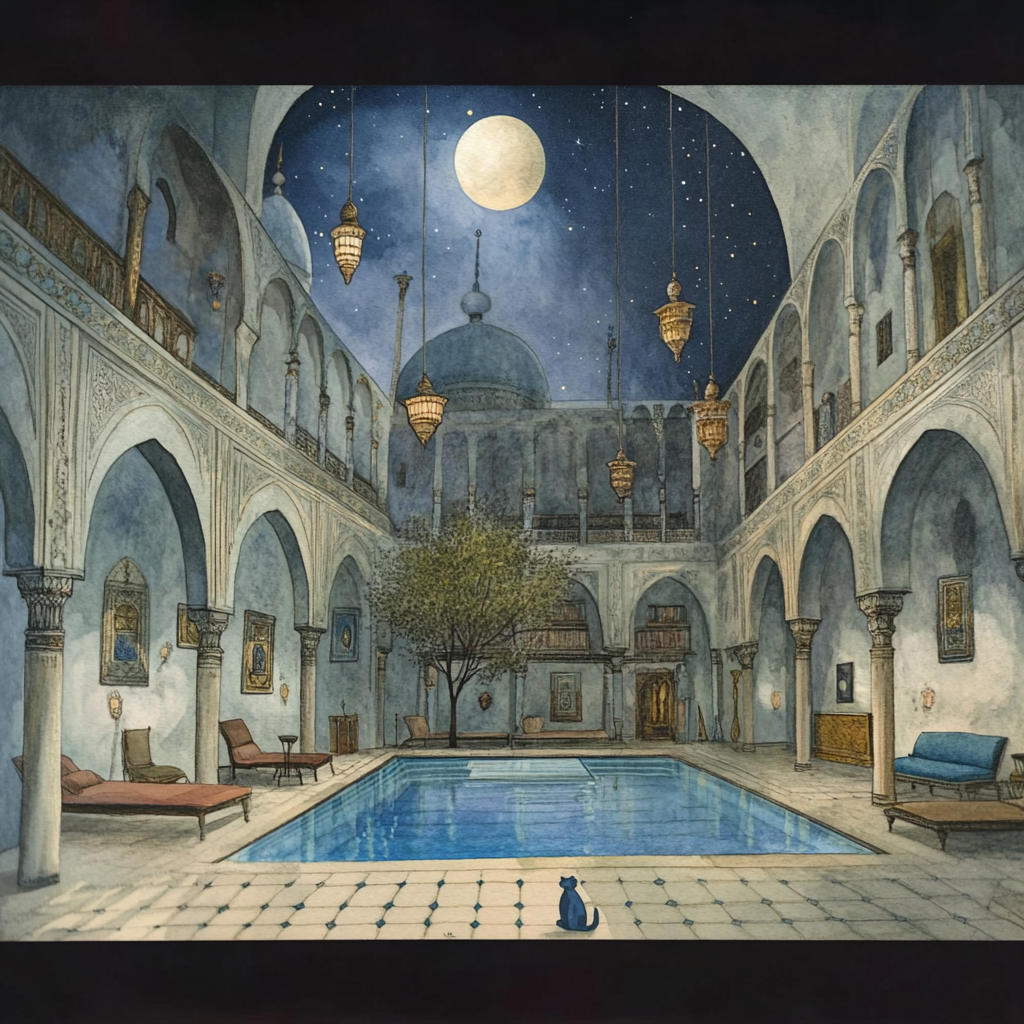
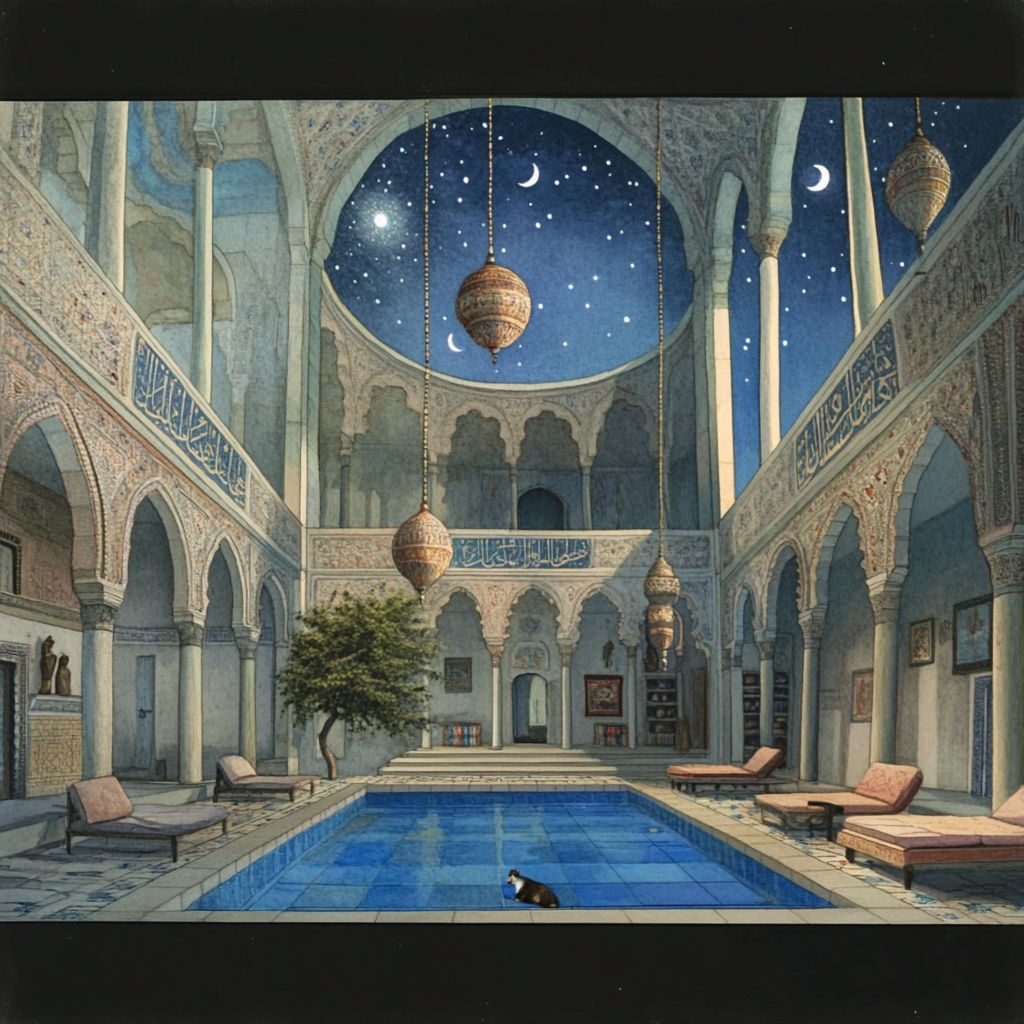
room 2 and some doors

diff --git a/room1/image_list.js b/room1/image_list.js
@@ -9,10 +9,47 @@ const images = [
   "images/room1_8.png",
   "images/room1_9.png",
   "images/room1_10.png",
+  "images/room1_10b.png",
+  "images/room1_10c.png",
   "images/room1_11.png",
-  "images/room1_12.png",
+  "images/room1_12.png.png",
+  "images/room1_12a.png",
   "images/room1_13.png",
   "images/room1_14.png",
   "images/room1_15.png",
   "images/room1_16.png",
+  "images/room1_17.png",
+  "images/room1_18.png",
+  "images/room1_19.png",
+  "images/room1_20.png",
+  "images/room1_20a.png",
+  "images/room1_20b.png",
+  "images/room1_21a.png",
+  "images/room1_21png.png",
+  "images/room1_22.png",
+  "images/room1_22a.png",
+  "images/room1_23.png",
+  "images/room1_24.png",
+  "images/room1_25.png",
+  "images/room1_26.png",
+  "images/room1_27.png",
+  "images/room1_28.png",
+  "images/room1_29.png",
+  "images/room1_30.png",
+  "images/room1_30a.png",
+  "images/room1_31.png",
+  "images/room1_32.png",
+  "images/room1_33.png",
+  "images/room1_33a.png",
+  "images/room1_34.png",
+  "images/room1_35.png",
+  "images/room1_36.png",
+  "images/room1_37.png",
+  "images/room1_38.png",
+  "images/room1_39.png",
+  "images/room1_40.png",
+  "images/room1_41.png",
+  "images/room1_42.png",
+  "images/room1_43.png",
+  "images/room1_44.png",
 ];

diff --git a/room2/fader.js b/room2/fader.js
@@ -1,0 +1,41 @@
+function startFader(images) {
+  console.log(`[${new Date().toLocaleTimeString()}] 🚀 startFader called with images:`, images);
+
+  let frontImg = document.getElementById('imgA');
+  let backImg = document.getElementById('imgB');
+
+  if (!frontImg || !backImg) {
+    console.error("❌ Could not find image elements #imgA or #imgB");
+    return;
+  }
+
+  let current = images.length - 1; // Start from the last image
+  frontImg.src = images[current];
+  frontImg.style.opacity = 1;
+  backImg.style.opacity = 0;
+
+  function crossfade() {
+    current = (current + 1) % images.length;
+    const nextSrc = images[current];
+
+    const imgPreloader = new Image();
+    imgPreloader.src = nextSrc;
+    imgPreloader.onload = () => {
+      const temp = frontImg;
+      frontImg = backImg;
+      backImg = temp;
+
+      backImg.src = nextSrc;
+      backImg.style.opacity = 1;
+      frontImg.style.opacity = 0;
+
+      console.log(`[${new Date().toLocaleTimeString()}] 🔁 Crossfaded to image: ${nextSrc}`);
+    };
+  }
+
+  // Start the first fade after a brief delay
+  setTimeout(() => {
+    crossfade(); // first transition
+    setInterval(crossfade, 7000); // continue every 15s
+  }, 300);
+}

diff --git a/home.css b/home.css
@@ -1,0 +1,52 @@
+/* Full background image settings */
+body {
+  background-size: contain;
+  background-position: center;
+  background-repeat: no-repeat;
+  background-color: black;
+  height: 100vh;
+  margin: 0;
+  font-family: sans-serif;
+  display: flex;
+  align-items: center;
+  justify-content: center;
+  text-align: center;
+  flex-direction: column;
+}
+
+/* Overlay container for all text */
+#overlay {
+  display: flex;
+  flex-direction: column;
+  align-items: center;
+  justify-content: center;
+}
+
+/* Highlight box styling for all text elements */
+.text-highlight {
+  background-color: rgba(255, 255, 255, 0.5);  /* translucent black */
+  color: white;
+  padding: 0.5rem 1rem;
+  border-radius: 0.4rem;
+  margin: 0.5rem auto;
+  backdrop-filter: blur(4px);
+  display: inline-block;
+  text-align: center;
+  max-width: 90%;
+}
+
+/* Room link styling */
+.room-link {
+  text-decoration: none;
+  color: white;
+  background-color: rgba(255, 255, 255, 0.15);
+  padding: 0.5rem 1rem;
+  border-radius: 0.5rem;
+  margin: 0.5rem;
+  transition: background-color 0.3s ease;
+  display: inline-block;
+}
+
+.room-link:hover {
+  background-color: rgba(255, 255, 255, 0.3);
+}

diff --git a/index.html b/index.html
@@ -1,11 +1,26 @@
 <!DOCTYPE html>
 <html>
 <head>
-  <title>dinghvadinidselfidest</title>
+  <meta charset="UTF-8" />
+  <title>A.L.P.INC</title>
+  <link rel="stylesheet" href="home.css">
 </head>
 <body>
-  <h1>A.L.PINC</h1>
-  <p>This sound will continue to play. You're inside the loop</p>
-  <p><a href="room1/">enter mind room 1</a></p>
+  <div id="overlay">
+    <h1 class="text-highlight">A.L.P.INC</h1>
+    <p class="text-highlight">This sound will continue to play. You're inside the loop.</p>
+    <div class="room-links">
+      <a href="room1/" class="room-link text-highlight">Room 1</a>
+      <a href="room2/" class="room-link text-highlight">Room 2</a>
+      <!-- Add more as needed -->
+    </div>
+  </div>
+ 
+
+  <script src="doorImages.js"></script>
+  <script>
+    const background = doorImages[Math.floor(Math.random() * doorImages.length)];
+    document.body.style.backgroundImage = `url(${background})`;
+  </script>
 </body>
 </html>

diff --git a/room2/image_list.js b/room2/image_list.js
@@ -1,0 +1,33 @@
+const images = [
+  "images/room2_2.png",
+  "images/room2_3.png",
+  "images/room2_4.png",
+  "images/room2_5.png",
+  "images/room2_6.png",
+  "images/room2_7.png",
+  "images/room2_8.png",
+  "images/room2_9.png",
+  "images/room2_10.png",
+  "images/room2_11.png",
+  "images/room2_12.png",
+  "images/room2_13.png",
+  "images/room2_14.png",
+  "images/room2_15.png",
+  "images/room2_16.png",
+  "images/room2_17.png",
+  "images/room2_17a.png",
+  "images/room2_17b.png",
+  "images/room2_18a.png",
+  "images/room2_19.png",
+  "images/room2_19a.png",
+  "images/room2_19b.png",
+  "images/room2_20.png",
+  "images/room2_20a.png",
+  "images/room2_21.png",
+  "images/room2_22.png",
+  "images/room2_24.png",
+  "images/room2_24a.png",
+  "images/room2_25.png",
+  "images/room2_27.png",
+  "images/room2_.1png.png",
+];

diff --git a/room2/index.html b/room2/index.html
@@ -1,0 +1,24 @@
+<!DOCTYPE html>
+<html lang="en">
+<head>
+  <meta charset="UTF-8">
+  <title>Image Fader</title>
+  <link rel="stylesheet" href="style.css">
+</head>
+<body>
+  <div id="image-container">
+    <img class="fade-img" id="imgA" src="images/room1_1.png" />
+    <img class="fade-img" id="imgB" src="images/room1_2.png" />
+  </div>
+</body>
+
+<!-- Load JavaScript after body to ensure DOM is ready -->
+ <script src="image_list.js"></script>
+  <script src="fader.js"></script>
+  <script>
+    document.addEventListener("DOMContentLoaded", () => {
+      startFader(images);  // uses the array defined in images.js
+    });
+  </script>
+</body>
+</html>

diff --git a/room2/style.css b/room2/style.css
@@ -1,0 +1,28 @@
+#image-container {
+  position: relative;
+  width: 100%;
+  height: 100vh;
+  overflow: hidden;
+  background-color: black;
+}
+
+.fade-img {
+  position: absolute;
+  top: 0;
+  left: 0;
+  width: 100%;
+  height: 100%;
+  object-fit: contain;   /* instead of cover */
+  background-color:black; /* optional: avoids whitespace if aspect ratios vary */
+  transition: opacity 7s ease-in-out;
+  opacity: 0;
+  pointer-events: none;
+}
+
+#imgA {
+  z-index: 1;
+}
+
+#imgB {
+  z-index: 2;
+}

diff --git a/doorImages.js b/doorImages.js
@@ -1,0 +1,14 @@
+const doorImages = [
+  "doors/IMG_7510.jpeg",
+  "doors/IMG_7543.jpeg",
+  "doors/IMG_7573.jpeg",
+  "doors/IMG_7574.jpeg",
+  "doors/IMG_7608.jpeg",
+  "doors/IMG_7619.jpeg",
+  "doors/IMG_7624.jpeg",
+  "doors/IMG_7625.jpeg",
+  "doors/IMG_7636.jpeg",
+  "doors/IMG_7639.jpeg",
+  "doors/IMG_7640.jpeg",
+  "doors/door_7575.jpeg",
+];

diff --git a/generate_door_list.py b/generate_door_list.py
@@ -1,0 +1,24 @@
+import os 
+import glob
+import re
+print("HERE")
+
+door_dir = "doors"
+image_files = glob.glob(os.path.join(door_dir, "*.jpeg"))  # TODO change this to be less brittle
+
+print(image_files)
+
+def natural_key(filename):
+    return [int(text) if text.isdigit() else text for text in re.split(r'(\d+)', filename)]
+
+image_files.sort(key=natural_key)
+relative_paths = [os.path.relpath(f) for f in image_files]
+
+
+with open("doorImages.js", "w") as f:
+    f.write("const doorImages = [\n")
+    for path in relative_paths:
+        f.write(f"  \"{path}\",\n")
+    f.write("];\n")
+
+print(f"✅ Generated doorImages.js with {len(relative_paths)} images.")
